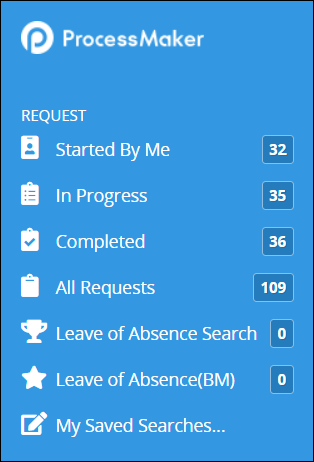
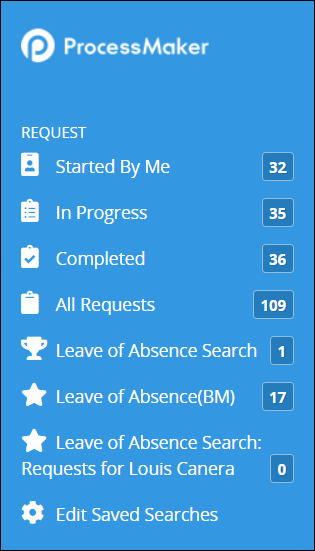
GitBook: [processmaker] 4 pages and 2 assets modified

diff --git a/using-processmaker/save-and-share-request-and-task-related-searches/manage-your-saved-searches/configure-a-saved-search.md b/using-processmaker/save-and-share-request-and-task-related-searches/manage-your-saved-searches/configure-a-saved-search.md
@@ -20,7 +20,7 @@ You may configure only one of your own Saved Searches. Configure a Saved Search 
 
 Follow these steps to configure one of your Saved Searches:
 
-1. [View all the Shared Searches that you have created and which have been shared with you](./#manage-your-own-saved-searches). The **My Saved Searches** page displays.
+1. [View the Shared Searches for a specific Saved Search type](./#manage-your-own-saved-searches). The **Edit Saved Searches** page displays.
 2. Click the **Configure** icon![](../../../.gitbook/assets/configure-process-icon-processes-page-processes.png). The **Configuration** tab displays. ![](../../../.gitbook/assets/configuration-tab-saved-searches-package.png) 
 3. Edit the following information in the **Configuration** tab about the Saved Search as necessary:
    * In the **Name** field, enter the name of your Saved Search. This is a required field.
@@ -39,29 +39,29 @@ Follow these steps to configure one of your Saved Searches:
      * [Request searches using PMQL](../../requests/search-for-a-request.md#advanced-search-for-a-request)
      * [Task searches using PMQL](../../task-management/search-for-a-task.md#advanced-search-for-a-task)
 4. Click **Save** if no further configuration is required. Otherwise, continue.
-5. Click the **Columns** tab. Use the **Columns** tab to customize a table from which to display search results for this Saved Search. The **Active Columns** column displays the currently selected columns that display information in the Saved Search's search results. The **Available Columns** column displays optional informational components to display in the Saved Search's search results. These available options are based on ProcessMaker's analysis of completed Requests for the Saved Search's selected Process. These optional informational components are derived from the [ProcessMaker Screen](../../../designing-processes/design-forms/what-is-a-form.md) control **Variable Name** setting values that the Saved Search's selected Process references in [Task](../../../designing-processes/process-design/model-your-process/process-modeling-element-descriptions.md#task) elements.  
+5. Click the **Columns** tab. Use the **Columns** tab to customize a table from which to display search results for this Saved Search. The **Active Columns** column displays the currently selected columns that display information in the Saved Search's search results. The **Available Columns** column displays optional informational components to display in the Saved Search's search results. These available options are based on ProcessMaker's analysis of completed Requests for the Saved Search's selected Process. These optional informational components are derived from the [ProcessMaker Screen](../../../designing-processes/design-forms/what-is-a-form.md) control **Variable Name** setting values that the Saved Search's selected Process references in [Task](../../../designing-processes/process-design/model-your-process/process-modeling-element-descriptions.md#task) and [Manual Task](../../../designing-processes/process-design/model-your-process/process-modeling-element-descriptions.md#manual-task) elements.  
    ![](../../../.gitbook/assets/columns-tab-saved-searches-package.png) 
 
    It may be helpful to know the **Variable Name** field values for ProcessMaker Screen controls that the Saved Search's selected Process references in Task elements. See [View the Variable Name Setting Values for ProcessMaker Screen Controls](configure-a-saved-search.md#view-the-variable-name-setting-values-for-processmaker-screen-controls).
 
 6. dfdfdf
 
-### View the Variable Name Setting Values for ProcessMaker Screen Controls
+## View the Variable Name Setting Values for ProcessMaker Screen Controls
 
-When [configuring a Saved Search](configure-a-saved-search.md#configure-a-saved-search), it may be helpful to know what the optional information components represent. These informational components are derived from the **Variable Name** setting values from the ProcessMaker Screen controls that the Saved Search's selected Process references in [Task](../../../designing-processes/process-design/model-your-process/process-modeling-element-descriptions.md#task) elements.
+When [configuring a Saved Search](configure-a-saved-search.md#configure-a-saved-search), it may be helpful to know what the optional information components represent. These informational components are derived from the **Variable Name** setting values from the ProcessMaker Screen controls that the Saved Search's selected Process references in [Task](../../../designing-processes/process-design/model-your-process/process-modeling-element-descriptions.md#task) and [Manual Task](../../../designing-processes/process-design/model-your-process/process-modeling-element-descriptions.md#manual-task) elements.
 
 Follow these guidelines to view the **Variable Name** setting values in ProcessMaker Screen controls:
 
-1. [View your Processes](../../../designing-processes/viewing-processes/view-the-list-of-processes/view-your-processes.md#view-all-active-processes). Note that your ProcessMaker user account must have the Processes: View Processes permission to do so. See [Processes](../../../processmaker-administration/permission-descriptions-for-users-and-groups.md#processes) permissions.
-2. Edit the Process for Requests or Tasks that your Saved Search references. Note that your ProcessMaker user account must have the Processes: Edit Processes permission to do so. See [Processes](../../../processmaker-administration/permission-descriptions-for-users-and-groups.md#processes) permissions.
-3. Do the following for each [Task](../../../designing-processes/process-design/model-your-process/process-modeling-element-descriptions.md#task) element in the Process model:
-   1. Click a Task element and then make note of the ProcessMaker Screen referenced in the **Screen For Input** setting. See [Add and Configure Task Elements](../../../designing-processes/process-design/model-your-process/add-and-configure-task-elements.md#select-the-processmaker-screen-for-a-task-element).
-   2. Click each control in each ProcessMaker Screen and make note of the **Variable Name** setting value. This setting displays in the **Columns** tab when you configure a Saved Search. Determine how that control is used during a Request, and then determine if that control's Request information should be referenced in your Saved Search.
-4. Do the following for each Manual element in the Process model:
-   1. Click a Manual Task element and then make note of the ProcessMaker Screen referenced in the **Summary screen** setting. See [Add and Configure Manual Task Elements](../../../designing-processes/process-design/model-your-process/add-and-configure-manual-task-elements.md#select-the-processmaker-screen-associated-with-the-manual-task).
-   2. Click each control in each ProcessMaker Screen and make note of the **Variable Name** setting value. This setting displays in the **Columns** tab when you configure a Saved Search.
-5. [View your ProcessMaker Screens](../../../designing-processes/scripts/manage-scripts/view-all-scripts.md#view-all-processmaker-scripts). Note that your ProcessMaker user account must have the Screens: View Screen permission to do so. See [Screens](../../../processmaker-administration/permission-descriptions-for-users-and-groups.md#screens) permissions.
-6. Edit the ProcessMaker Screen referenced in the Process. Note that your ProcessMaker user account must have the Screens: Edit Screen permission to do so. See [Screens](../../../processmaker-administration/permission-descriptions-for-users-and-groups.md#screens) permissions.
+1. [View your Processes](../../../designing-processes/viewing-processes/view-the-list-of-processes/view-your-processes.md#view-all-active-processes). Note that your ProcessMaker user account must have the Processes: View Processes permission to do so. See [Processes](../../../processmaker-administration/permission-descriptions-for-users-and-groups.md#processes) permissions or contact your ProcessMaker Administrator.
+2. Edit the Process for the Requests/Tasks that your Saved Search references. Note that your ProcessMaker user account must have the Processes: Edit Processes permission to do so. See [Processes](../../../processmaker-administration/permission-descriptions-for-users-and-groups.md#processes) permissions or contact the Process Owner for that Process to continue to the next step.
+3. Do the following for each Task element and Manual Task element in the Process model:
+   * **Task elements:** Click each Task element and then make note of the ProcessMaker Screen referenced in the **Screen For Input** setting. See [Add and Configure Task Elements](../../../designing-processes/process-design/model-your-process/add-and-configure-task-elements.md#select-the-processmaker-screen-for-a-task-element).
+   * **Manual Task elements:** Click each Manual Task element and then make note of the ProcessMaker Screen referenced in the **Summary screen** setting. See [Add and Configure Manual Task Elements](../../../designing-processes/process-design/model-your-process/add-and-configure-manual-task-elements.md#select-the-processmaker-screen-associated-with-the-manual-task).
+4. [View your ProcessMaker Screens](../../../designing-processes/scripts/manage-scripts/view-all-scripts.md#view-all-processmaker-scripts). Note that your ProcessMaker user account must have the Screens: View Screen permission to do so. See [Screens](../../../processmaker-administration/permission-descriptions-for-users-and-groups.md#screens) permissions or contact your ProcessMaker Administrator.
+5. Edit each ProcessMaker Screen referenced in each Task and/or Manual Task element\(s\) in the Process model. Note that your ProcessMaker user account must have the Screens: Edit Screen permission to do so. See [Screens](../../../processmaker-administration/permission-descriptions-for-users-and-groups.md#screens) permissions or contact the ProcessMaker Screen designer\(s\) to continue to the next step.
+6. Click each control in each ProcessMaker Screen referenced by the Task/Manual Task element and make note of the **Variable Name** setting value for controls that have this setting.
+7. Determine how each control with the **Variable Name** setting value is used during a Request.
+8. Determine if that control's Request information should be referenced in your Saved Search. If so, consider using that Variable Name setting in your Saved Search.
 
 ## Related Topics
 

diff --git a/using-processmaker/save-and-share-request-and-task-related-searches/manage-your-saved-searches/README.md b/using-processmaker/save-and-share-request-and-task-related-searches/manage-your-saved-searches/README.md
@@ -22,35 +22,32 @@ You can manage your own Saved Searches. However, you cannot manage Saved Searche
 
 Follow these steps to manage your own Saved Searches:
 
-1. View all Saved Searches that you have created and which have been shared with you from any of the following pages:
-   * **Requests** pages:
+1. View the Saved Searches that you have created and which have been shared with you. A Saved Search is accessed from pages associated with its type.
+   * Access Request-related Saved Searches from the following **Requests** pages:
      * **My Requests** page. See [View Your Requests That You Started](../../requests/view-started-requests.md#view-your-requests).
      * **In Progress** page. See [View Requests That Are In Progress](../../requests/view-in-progress-requests.md#view-in-progress-requests-in-which-you-are-participating).
      * **Completed** page. See [View Completed Requests](../../requests/view-completed-requests.md#view-completed-requests-in-which-you-participated).
      * **All Requests** page. See [View All Requests](../../requests/view-all-requests.md#view-all-requests-in-your-organization). \(Note that your ProcessMaker user account must have the [**Requests: View All Requests** permission](../../../processmaker-administration/permission-descriptions-for-users-and-groups.md#requests) to view the **All Requests** page.\)
-   * **Tasks** pages:
+   * Access Task-related Saved Searches from the following **Tasks** pages:
      * **To Do** page. See [View Tasks You Need to Do](../../task-management/view-tasks-you-need-to-do.md).
      * **Completed** page. See [View Completed Tasks](../../task-management/view-completed-tasks.md).
-2. Click the **My Saved Searches** icon![](../../../.gitbook/assets/save-search-icon-package-requests-tasks.png)from the left sidebar. The **My Saved Searches** page displays.
+2. Click the **Edit Saved Searches** icon![](../../../.gitbook/assets/configure-process-icon-processes-page-processes.png)from the left sidebar. The **Edit Saved Searches** page displays the type of Saved Searches specific to the context from which the **Edit Saved Searches** icon was selected. For example, the image below displays Request-specific Saved Searches.
 
 ![&quot;My Saved Searches&quot; page displays your saved searches and those which have been shared with you](../../../.gitbook/assets/my-saved-searches-page-package-requests-tasks.png)
 
-The **My Saved Searches** page displays the following information in tabular format about your Saved Searches and those which have been shared with you:
+The **Edit Saved Searches** page displays the following information in tabular format about your Saved Searches and those which have been shared with you:
 
-* **Name:** The **Name** column displays the name of the Saved Search.
-* **Type:** The **Type** column displays the type of Saved Search:
-  * **Request:** The Saved Search is based on [Request search](../../requests/search-for-a-request.md#save-and-share-a-search) parameters.
-  * **Task:** The Saved Search is based on [Task search](../../task-management/search-for-a-task.md) parameters.
+* **Name:** The **Name** column displays the name of the Saved Search. The icon beside the Saved Search's name displays in the left sidebar for that Saved Search's type. For example, the icons that display in the image above display in Request-related pages. ProcessMaker users who have been shared a Saved Search click on that Saved Search's icon to view the search results of that Saved Search. The ProcessMaker user who [created the Saved Search](../create-and-share-a-saved-search.md#create-and-share-a-saved-search) selects the icon that displays for that Saved Search.
 * **Created By:** The **Created By** column displays the ProcessMaker user's avatar who created the Saved Search. Hover your cursor over the ProcessMaker user's avatar to view that person's full name.
 * **Modified:** The **Modified** column displays the date and time the Saved Search was last modified by the ProcessMaker user that created the Saved Search. A Saved Search can only be modified by the ProcessMaker user that created it. The time zone setting to display the time is according to the ProcessMaker instance unless your [user profile's](../../profile-settings.md#change-your-profile-settings) **Time zone** setting is specified.
 * **Created:** The **Created** column displays the date and time the Saved Search was created. The time zone setting to display the time is according to the ProcessMaker instance unless your [user profile's](../../profile-settings.md#change-your-profile-settings) **Time zone** setting is specified.
 
-Use the **My Saved Searches** page to manage your own Saved Searches. Saved Searches that do not have any options are those which have been shared with you. A Saved Search can only be managed by the ProcessMaker [user](../../../processmaker-administration/add-users/what-is-a-user.md) that creates it. Therefore, there are no options for Saved Searches shared with you. You may only use Saved Searches shared with you by [viewing their search results](../view-saved-searches-that-are-shared-with-you.md).
+Use the **Edit Saved Searches** page to manage your own Saved Searches. Saved Searches that do not have any options are those which have been shared with you. A Saved Search can only be managed by the ProcessMaker [user](../../../processmaker-administration/add-users/what-is-a-user.md) that creates it. Therefore, there are no options for Saved Searches shared with you. You may only use Saved Searches shared with you by [viewing their search results](../view-saved-searches-that-are-shared-with-you.md).
 
 {% hint style="info" %}
 ### Too Many Saved Searches in Your Sidebar?
 
-Toggle to hide or show your own Saved Searches by using the **Hide Saved Search**![](../../../.gitbook/assets/hide-saved-search-icon-package.png)and **Show Saved Search**![](../../../.gitbook/assets/show-saved-search-icon-package.png)icons. See [Hide or Show Your Own Saved Searches](hide-or-show-a-saved-search.md).
+Toggle to hide or show your own Saved Searches by using the **Hide Saved Search**![](../../../.gitbook/assets/hide-saved-search-icon-package.png)and **Show Saved Search**![](../../../.gitbook/assets/show-saved-search-icon-package.png)icons. Hidden Saved Searches do not display in the left sidebar specific to the context from which the **Edit Saved Searches** icon was selected. See [Hide or Show Your Own Saved Searches](hide-or-show-a-saved-search.md).
 
 ### Configure One of Your Own Saved Searches
 

diff --git a/using-processmaker/save-and-share-request-and-task-related-searches/manage-your-saved-searches/hide-or-show-a-saved-search.md b/using-processmaker/save-and-share-request-and-task-related-searches/manage-your-saved-searches/hide-or-show-a-saved-search.md
@@ -20,29 +20,29 @@ To hide or show [Saved Searches](../what-is-a-saved-search.md), the [Saved Searc
 
 You may hide or show your own Saved Searches. However, you cannot hide or show Saved Searches which have been shared with you. You can only control visibility of Saved Searches that you have [created](../create-and-share-a-saved-search.md).
 
-Hiding a Saved Search only hides that Saved Search from the left sidebar of the Request- and Task-related pages. Sharing recipients of that Saved Search may still use it to view search results using your Saved Search's parameters.
+Hiding a Saved Search only hides it from the left sidebar for its specific Saved Search type. For example, toggling visibility of a Request-related Saved Search only affects the left sidebar on Request-related pages. Shared recipients of a Saved Search may still use that Saved Search to view search results.
 
-Visible Saved Searches display above the **My Saved Searches** icon![](../../../.gitbook/assets/save-search-icon-package-requests-tasks.png).
+Visible Saved Searches display above the **Edit Saved Searches** icon![](../../../.gitbook/assets/save-search-icon-package-requests-tasks.png).
 
 ![View Saved Search Results by clicking the left sidebar on &quot;Requests&quot; and &quot;Tasks&quot; pages](../../../.gitbook/assets/saved-searches-results-package-requests-tasks.png)
 
 ## Hide Your Own Saved Search
 
-You may hide only one of your own Saved Searches. Hiding a Saved Search only hides that Saved Search from the left sidebar of the Request- and Task-related pages. Sharing recipients of that Saved Search may still use it to view search results using your Saved Search's parameters.
+You may hide only one of your own Saved Searches. Hiding a Saved Search only hides it from the left sidebar for its specific Saved Search type. For example, toggling visibility of a Request-related Saved Search only affects the left sidebar on Request-related pages. Shared recipients of a Saved Search may still use that Saved Search to view search results.
 
 Follow these steps to hide one of your own Saved Searches:
 
-1. [View all the Shared Searches that you have created and which have been shared with you](./#manage-your-own-saved-searches). The **My Saved Searches** page displays.
-2. Click the **Hide Saved Search** icon![](../../../.gitbook/assets/hide-saved-search-icon-package.png) for one of your Saved Searches. The Saved Search is hidden, indicated by diminished visibility of that Saved Search in the **My Saved Searches** page.
+1. [View the Shared Searches for a specific Saved Search type](./#manage-your-own-saved-searches). The **Edit Saved Searches** page displays.
+2. Click the **Hide Saved Search** icon![](../../../.gitbook/assets/hide-saved-search-icon-package.png) for one of your Saved Searches. The Saved Search is hidden, indicated by diminished visibility of that Saved Search in the **Edit Saved Searches** page.
 
 ## Show Your Hidden Saved Search
 
-Showing a hidden Saved Search displays that Saved Search in the left sidebar of the Request- and Task-related pages.
+Showing a Saved Search only hides it from the left sidebar for its specific Saved Search type. For example, toggling visibility of a Request-related Saved Search only affects the left sidebar on Request-related pages. Shared recipients of a Saved Search may still use that Saved Search to view search results.
 
 Follow these steps to show one of your hidden Saved Searches:
 
-1. [View all the Shared Searches that you have created and which have been shared with you](./#manage-your-own-saved-searches). The **My Saved Searches** page displays.
-2. Click the **Show Saved Search** icon![](../../../.gitbook/assets/show-saved-search-icon-package.png) for the hidden Saved Search. The Saved Search is visible, indicated by full visibility of that Saved Search in the **My Saved Searches** page.
+1. [View the Shared Searches for a specific Saved Search type](./#manage-your-own-saved-searches). The **Edit Saved Searches** page displays.
+2. Click the **Show Saved Search** icon![](../../../.gitbook/assets/show-saved-search-icon-package.png) for the hidden Saved Search. The Saved Search is visible in the left sidebar for that type of Saved Search, indicated by full visibility of that Saved Search in the **Edit Saved Searches** page.
 
 ## Related Topics
 

diff --git a/using-processmaker/save-and-share-request-and-task-related-searches/manage-your-saved-searches/delete-a-saved-search.md b/using-processmaker/save-and-share-request-and-task-related-searches/manage-your-saved-searches/delete-a-saved-search.md
@@ -24,7 +24,7 @@ You may delete a Saved Search that you [created](../create-and-share-a-saved-sea
 
 Follow these steps to delete one of your own Saved Searches:
 
-1. [View all the Shared Searches that you have created and which have been shared with you](./#manage-your-own-saved-searches). The **My Saved Searches** page displays.
+1. [View the Shared Searches for a specific Saved Search type](./#manage-your-own-saved-searches). The **Edit Saved Searches** page displays.
 2. Click the **Delete** icon![](../../../.gitbook/assets/trash-icon-process-modeler-processes.png) for one of your Saved Searches. The **Caution** screen displays to confirm the deletion of the Saved Search.  ![](../../../.gitbook/assets/caution-delete-saved-search-package.png) 
 3. Click **Confirm**.
 
